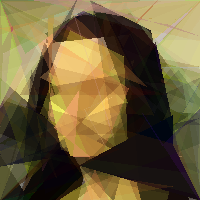
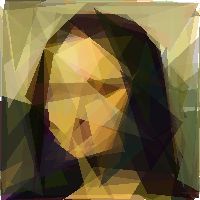
Use new value instead of perturbation for 2x speed boost

diff --git a/swarming-polygons/swarming_polygons.py b/swarming-polygons/swarming_polygons.py
@@ -6,7 +6,7 @@ from PIL import Image, ImageDraw
 # ______________________________________________________________________________
 class Colony:
     def __init__(self, image, polygon_count, vertex_count):
-        self.original_image_array = np.array(image.copy())
+        self.original_image_array = np.array(image)
         self.width = image.size[0]
         self.height = image.size[1]
 
@@ -15,70 +15,64 @@ class Colony:
 
         self.colors = np.random.randint(0, 256, size=(polygon_count, 4), dtype=np.dtype('uint8')) # RGBA
 
-        self.polygons = np.empty((polygon_count, 2 * vertex_count), dtype=np.dtype('int'))
+        self.polygons = np.empty((polygon_count, 2 * vertex_count), dtype=np.dtype('uint16'))
         self.polygons[:, 0::2] = np.random.randint(0, self.width, size=(polygon_count, vertex_count)) # x values on even positions
         self.polygons[:, 1::2] = np.random.randint(0, self.height, size=(polygon_count, vertex_count)) # y values on odd positions
         
-        self.edges = np.tile([self.width, self.height], vertex_count) # FIXME
+        self.edges = np.tile([self.width, self.height], vertex_count)
 
-        self.best = np.array(self.draw(self.colors, self.polygons)) # image_array
+        self.best = np.array(self.draw(self.colors, self.polygons)) # image array
         self.best_fitness = self.calculate_fitness(self.best)
     
-    def draw(self, colors, polygons):
-        canvas = Image.new('RGB', (self.width, self.height), (255, 255, 255, 0))
+    def draw(self, colors, polygons, scale=1):
+        canvas = Image.new('RGB', (self.width*scale, self.height*scale), (255, 255, 255, 0))
         drawer = ImageDraw.Draw(canvas, 'RGBA')
         for color, polygon in zip(colors, polygons):
-            drawer.polygon(polygon[:].tolist(), tuple(color)) # FIXME check if copying is needed
-        del(drawer) # TODO verify if del is necessary (and if not recreating it each time improves performance)
+            drawer.polygon((scale * polygon[:]).tolist(), tuple(color))
+        del drawer
         return canvas
     
     def calculate_fitness(self, image_array):
-        return np.abs(np.subtract(self.original_image_array, image_array, dtype=np.dtype('i4'))).sum()
-        # return np.square(np.subtract(self.original_image_array, image_array, dtype=np.dtype('i4'))).sum()
+        # return np.abs(np.subtract(self.original_image_array, image_array, dtype=np.dtype('uint16'))).sum()
+        return np.square(np.subtract(self.original_image_array, image_array, dtype=np.dtype('uint16'))).sum()
     
     def mutant(self):
 
         def mutate_vertex(self, polygon_index):
-            # FIXME
-            # colors = self.colors.copy()
             polygons = self.polygons.copy()
-            max_dim = max(self.width, self.height)
-            vertex_perturbation = np.random.randint(- max_dim/2, (max_dim/2) + 1, size=2) # (dx, dy) perturbations for mutation
             vertex_index = 2 * np.random.choice(self.vertex_count) # chooses one of the polygon's vertices to mutate
+            '''half_max_dim = max(self.width, self.height) / 2
+            vertex_perturbation = np.random.randint(-half_max_dim, half_max_dim + 1, size=2) # (dx, dy) perturbations for mutation
             polygons[polygon_index, vertex_index:vertex_index+2] = np.clip(a=polygons[vertex_index, vertex_index:vertex_index+2] + vertex_perturbation, 
                                                                            a_min=0, 
-                                                                           a_max=[self.width, self.height])
-            # return colors, polygons
+                                                                           a_max=[self.width, self.height])'''
+            polygons[polygon_index,   vertex_index] = np.random.randint(0, self.width  + 1, dtype=np.dtype('uint16')) # width
+            polygons[polygon_index, 1+vertex_index] = np.random.randint(0, self.height + 1, dtype=np.dtype('uint16')) # height
             return self.colors, polygons
 
         def mutate_polygon(self, polygon_index):
-            # FIXME
-            # colors = self.colors.copy()
             polygons = self.polygons.copy()
-            max_dim = max(self.width, self.height)
-            polygon_perturbation = np.tile(np.random.randint(- max_dim/2, (max_dim/2) + 1, size=2), self.vertex_count)
+            '''half_max_dim = max(self.width, self.height) / 2
+            polygon_perturbation = np.tile(np.random.randint(-half_max_dim, half_max_dim + 1, size=2), self.vertex_count)
             polygons[polygon_index] = np.clip(a=polygons[polygon_index] + polygon_perturbation, 
                                               a_min=0, 
-                                              a_max=self.edges)
-            # return colors, polygons
+                                              a_max=self.edges)'''
+            polygons[polygon_index, 0::2] = np.tile(np.random.randint(0, self.width  + 1, dtype=np.dtype('uint16')), self.vertex_count) # width
+            polygons[polygon_index, 1::2] = np.tile(np.random.randint(0, self.height + 1, dtype=np.dtype('uint16')), self.vertex_count) # height
             return self.colors, polygons
 
         def mutate_color(self, polygon_index):
-            # FIXME
             colors = self.colors.copy()
-            # polygons = self.polygons.copy()
-            color_perturbation = np.random.randint(-255, 256, size=3) # RGB
-            colors[polygon_index][:3] = np.clip(colors[polygon_index][:3] + color_perturbation, 0, 255)
-            # return colors, polygons
+            '''color_perturbation = np.random.randint(-127, 128, size=3) # RGB
+            colors[polygon_index][:3] = np.clip(colors[polygon_index][:3] + color_perturbation, 0, 255)'''
+            colors[polygon_index][:3] = np.random.randint(0, 256, size=3, dtype=np.dtype('uint8'))
             return colors, self.polygons
 
         def mutate_alpha(self, polygon_index):
-            # FIXME
             colors = self.colors.copy()
-            # polygons = self.polygons.copy()
-            alpha_perturbation = np.random.randint(-255, 256)
-            colors[polygon_index][3] = np.clip(colors[polygon_index][3] + alpha_perturbation, 0, 255)
-            # return colors, polygons
+            '''alpha_perturbation = np.random.randint(-127, 128)
+            colors[polygon_index][3] = np.clip(colors[polygon_index][3] + alpha_perturbation, 0, 255)'''
+            colors[polygon_index][3] = np.random.randint(26, 225, dtype=np.dtype('uint8'))
             return colors, self.polygons
 
         mutation = np.random.choice([mutate_vertex, mutate_polygon, mutate_color, mutate_alpha])
@@ -94,10 +88,10 @@ class Colony:
             self.polygons = new_polygons
             self.best = new_image_array
             self.best_fitness = new_fitness
-        return self.colors, self.polygons, self.best, self.best_fitness
+        # return self.colors, self.polygons, self.best, self.best_fitness
 
-    def save_best(self, save_path, save_format):
-        image = self.draw(self.colors, self.polygons)
+    def save_best(self, save_path, save_format, scale=1):
+        image = self.draw(self.colors, self.polygons, scale)
         image.save(save_path, save_format)
 
 # ______________________________________________________________________________
